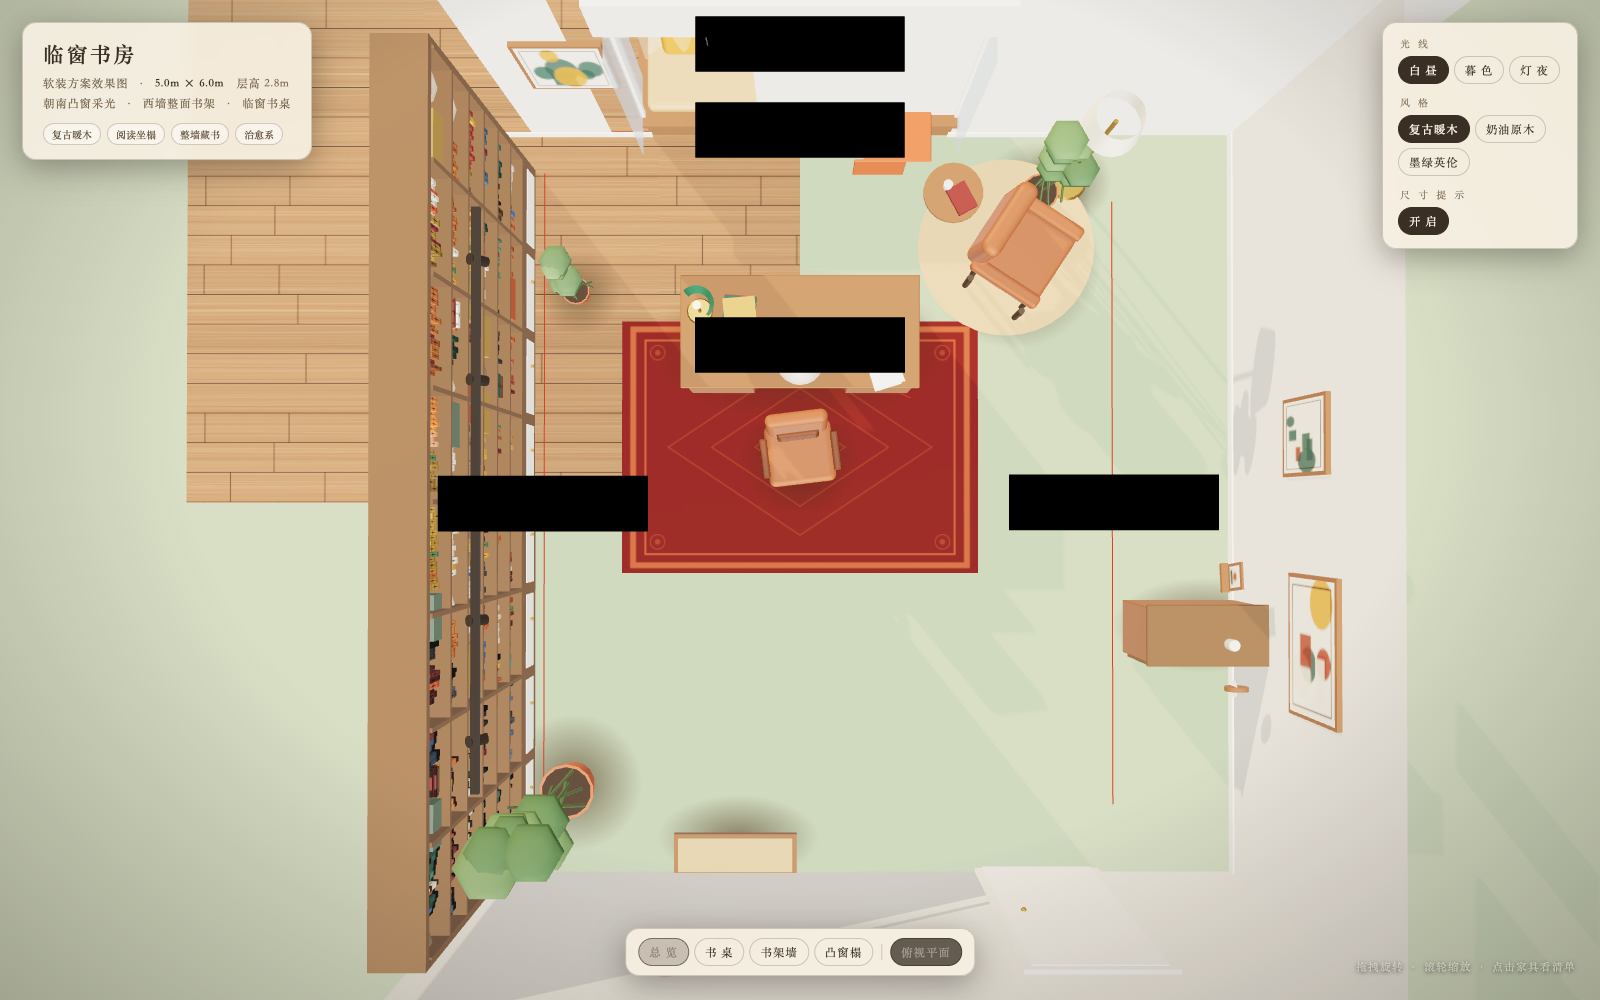
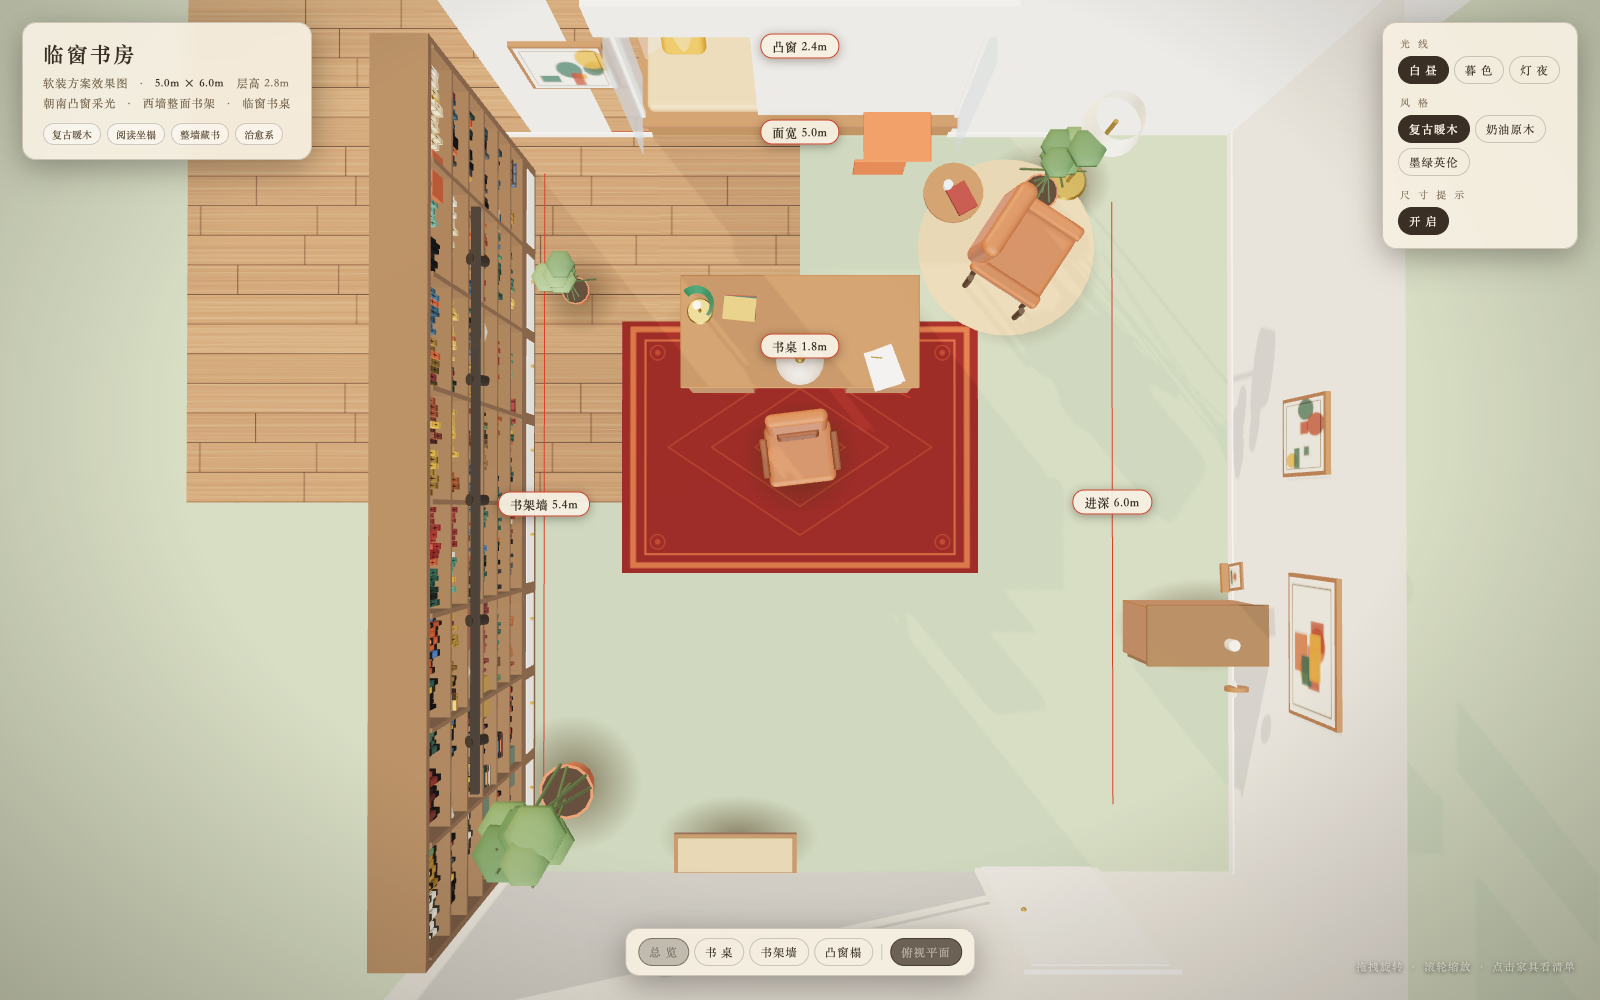
尺寸标注重构：Sprite黑框改DOM投影标签（每帧屏幕投影跟随，文字清晰可读）；noui联动隐藏标注；书架墙标注文案精简

diff --git a/index.html b/index.html
@@ -60,6 +60,10 @@
   #popCard dd b{color:#8f3b2b}
   #popCard .tip{margin-top:7px;font-size:10.5px;color:#7a6a52;background:rgba(200,135,31,.12);
     border-left:2px solid #c8871f;padding:5px 8px;line-height:1.6}
+  .taglab{position:absolute;transform:translate(-50%,-50%);background:rgba(246,240,226,.95);
+    border:1.5px solid #c8402a;border-radius:12px;padding:3px 11px;font-family:"Songti SC","STSong",serif;
+    font-size:12px;font-weight:700;color:#3a2f24;letter-spacing:.06em;white-space:nowrap;
+    box-shadow:0 2px 10px rgba(15,10,4,.35)}
   .ping{position:fixed;z-index:18;width:52px;height:52px;margin:-26px 0 0 -26px;border-radius:50%;
     border:2px solid #c8402a;pointer-events:none;animation:ping .7s ease-out forwards}
   @keyframes ping{from{transform:scale(.4);opacity:.95}to{transform:scale(1.6);opacity:0}}
@@ -906,33 +910,36 @@ document.getElementById('viewBar').addEventListener('click',e=>{
 let dimsOn=true;
 document.getElementById('dimBtn').addEventListener('click',()=>{
   dimsOn=!dimsOn; dimGroup.visible=dimsOn;
+  if(dimsOn) ensureDimDom();
+  if(dimWrap) dimWrap.style.display = (dimsOn?'block':'none');
   document.getElementById('dimBtn').textContent=dimsOn?'开 启':'隐 藏';
   document.getElementById('dimBtn').classList.toggle('on',dimsOn); });
 
-/* 尺寸标注线 */
+/* 尺寸标注线（WebGL红线）+ DOM 文字标签（project 到屏幕层，稳定清晰） */
 const dimGroup=new THREE.Group(); scene.add(dimGroup);
+const DIMS=[]; let dimWrap=null;
 function dimLine(a,b,label){
   const va=new THREE.Vector3(...a), vb=new THREE.Vector3(...b);
   const g=new THREE.BufferGeometry().setFromPoints([va,vb]);
   const l=new THREE.Line(g,new THREE.LineBasicMaterial({color:'#c8402a'})); dimGroup.add(l);
-  const md=new THREE.SpriteMaterial({ map:new THREE.CanvasTexture(textCanvas(label)), depthTest:false});
-  const sp=new THREE.Sprite(md); sp.scale.set(1.7,.45,1);
-  sp.position.copy(va).lerp(vb,.5).add(new THREE.Vector3(0,.05,0)); dimGroup.add(sp);
+  DIMS.push({m:va.clone().lerp(vb,.5), el:null, txt:label});
 }
-function textCanvas(t){ const c=document.createElement('canvas'); c.width=512;c.height=128;
-  const g=c.getContext('2d'); g.fillStyle='rgba(246,240,226,.96)';
-  g.beginPath(); g.roundRect(8,8,496,112,24); g.fill();
-  g.strokeStyle='#c8402a'; g.lineWidth=6; g.stroke();
-  g.fillStyle='#3a2f24'; g.font='700 62px "Songti SC",serif';
-  g.textAlign='center'; g.textBaseline='middle'; g.fillText(t,256,68);
-  const tx=new THREE.CanvasTexture(c); tx.colorSpace=THREE.SRGBColorSpace; return tx; }
+function ensureDimDom(){
+  if(dimWrap) return;
+  dimWrap=document.createElement('div');
+  dimWrap.style.cssText='position:fixed;inset:0;pointer-events:none;z-index:8;display:none';
+  document.body.appendChild(dimWrap);
+  DIMS.forEach(d=>{
+    const el=document.createElement('div'); el.className='taglab'; el.textContent=d.txt;
+    d.el=el; dimWrap.appendChild(el); });
+}
 
 function buildDims(){
   const y=0.02, off=0.55;
   dimLine([off, y, -0.02],[ROOM_W-off,y,-0.02],'面宽 5.0m');
   dimLine([ROOM_W+0.04,y,off],[ROOM_W+0.04,y,ROOM_D-off],'进深 6.0m');
   dimLine([1.3,y,-0.72],[3.7,y,-0.72],'凸窗 2.4m');
-  dimLine([0.42,y,0.32],[0.42,y,5.7],'书架墙 5.4m×通高');
+  dimLine([0.42,y,0.32],[0.42,y,5.7],'书架墙 5.4m');
   dimLine([1.6,y,1.3],[3.4,y,2.15],'书桌 1.8m');
 }
 buildDims();
@@ -955,8 +962,8 @@ applyPalette('A');
 
 /* URL 参数直出（供截图QA） */
 const qs=new URLSearchParams(location.search);
-if(qs.get('noui')==='1'){ document.querySelectorAll('.card,#hint,#loading').forEach(el=>el.style.display='none'); }
-if(qs.get('time')){ applyMode(qs.get('time'));
+if(qs.get('noui')==='1'){ document.querySelectorAll('.card,#hint,#loading').forEach(el=>el.style.display='none');
+  dimsOn=false; dimGroup.visible=false; }if(qs.get('time')){ applyMode(qs.get('time'));
   document.querySelectorAll('#timeBtns .pill').forEach(x=>x.classList.toggle('on',x.dataset.t===qs.get('time'))); }
 if(qs.get('style')){ applyPalette(qs.get('style'));
   document.querySelectorAll('#styleBtns .pill').forEach(x=>x.classList.toggle('on',x.dataset.s===qs.get('style'))); }
@@ -1027,6 +1034,9 @@ if(qs.get('autoclick')){
     if(obj&&obj.userData.info) showPop(obj.userData.info, innerWidth*.64, innerHeight*.58, obj);
   }, 400);
 }
+/* DOM 尺寸标签初始化 */
+ensureDimDom();
+if(dimWrap) dimWrap.style.display=dimsOn?'block':'none';
 
 /* ================= 渲染循环 ================= */
 addEventListener('resize',()=>{ camera.aspect=innerWidth/innerHeight;
@@ -1062,6 +1072,13 @@ function loop(){
     camera.position.lerpVectors(tween.p0,tween.p1,e);
     controls.target.lerpVectors(tween.t0,tween.t1,e);
     if(tween.t>=1) tween=null; }
+  /* DOM 尺寸标签跟随投影 */
+  if(dimsOn&&dimWrap){
+    DIMS.forEach(d=>{ tmpV.copy(d.m).project(camera);
+      if(tmpV.z<-1||tmpV.z>1){ d.el.style.display='none'; return; }
+      d.el.style.display='block';
+      d.el.style.left=((tmpV.x*.5+.5)*innerWidth)+'px';
+      d.el.style.top =((-tmpV.y*.5+.5)*innerHeight)+'px'; }); }
   controls.update();
   renderer.render(scene,camera);
   if(firstFrame){ firstFrame=false;
